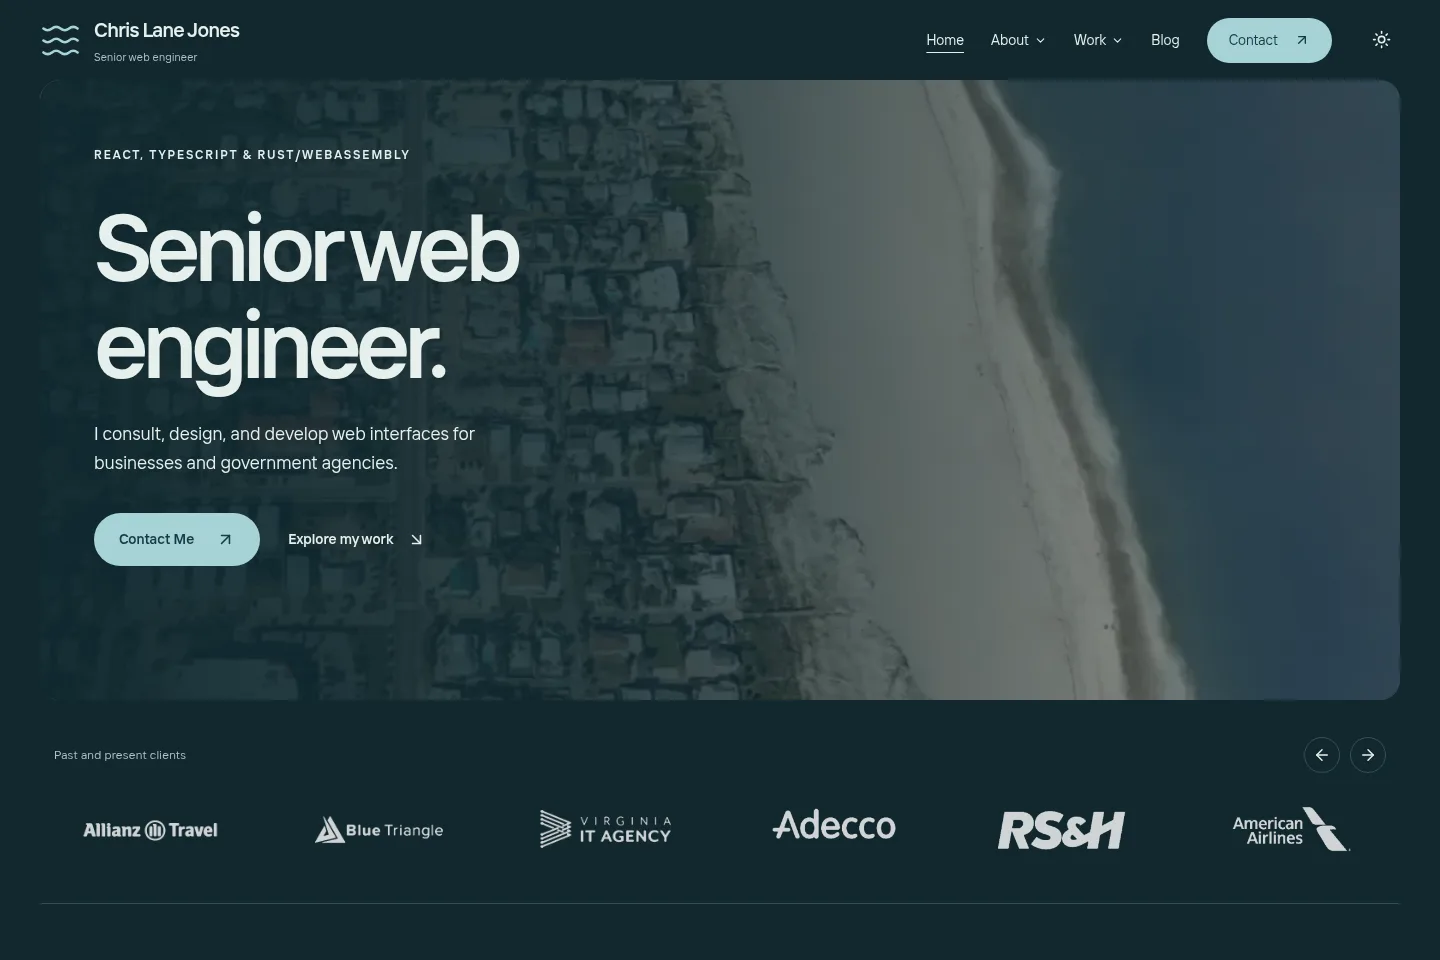
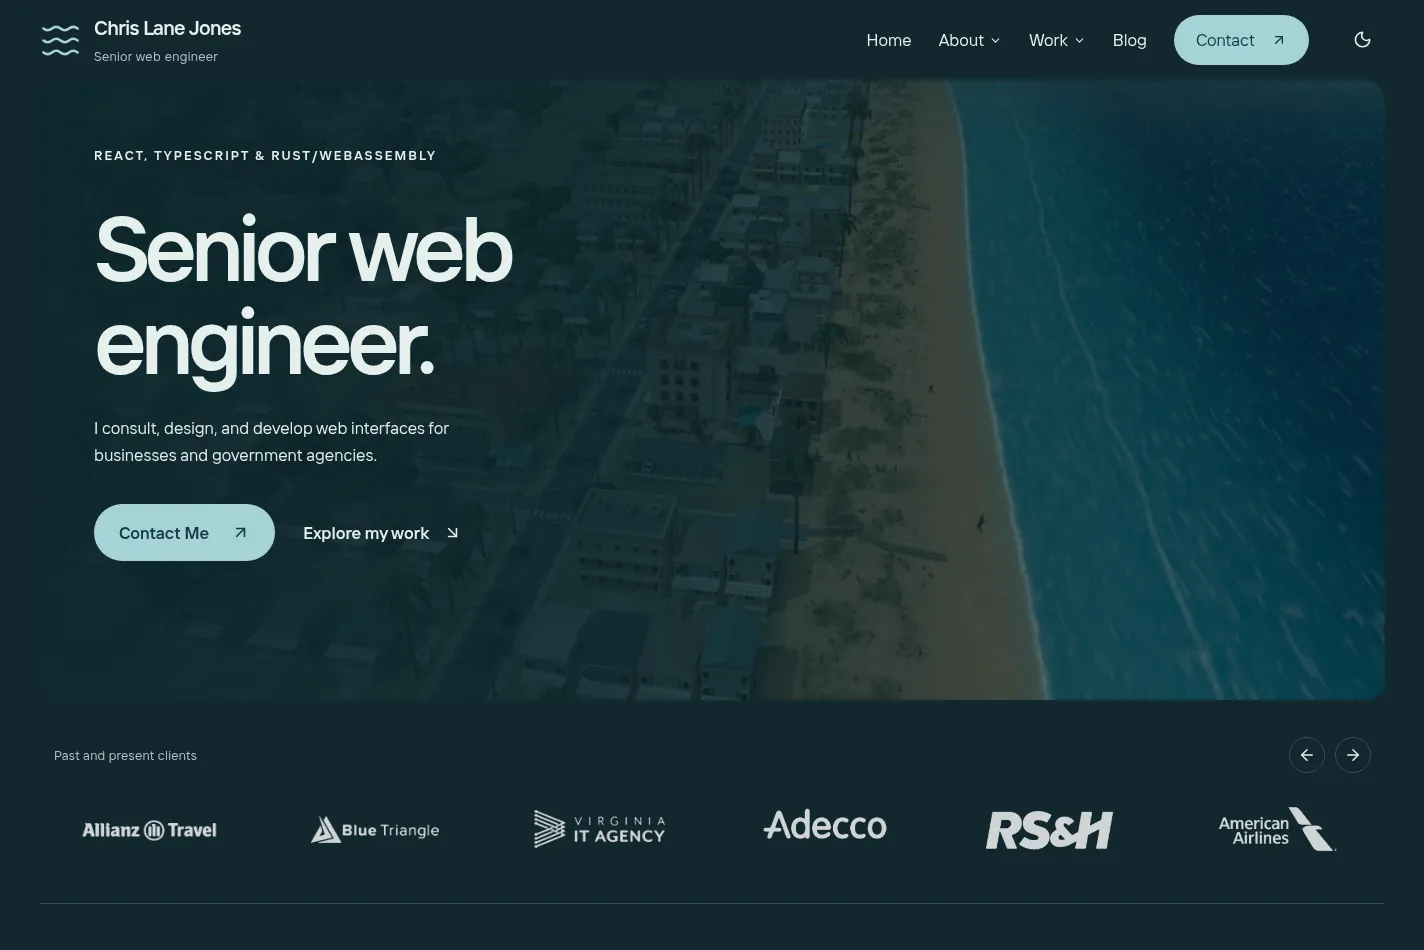
docs(readme): describe the live beach site as it ships today
- This repo is the live site now; Vercel deploys chrislanejones.com from main.
- New screenshots of the 3D coast hero in light and dark.
- Around the site: the 3D coast, Latest writing, the three-column Beyond
  the browser, the moldable sandcastle beach, and lighter phones.
- New "How the hero loads" section, including ?hero=lite.
- Stack, commands and "where to change things" pick up sanitize-html,
  the tests, the hero files and the sandcastle files.
- Deployment notes on previews and Deployment Storage.

diff --git a/README.md b/README.md
@@ -1,12 +1,12 @@
 # Chris Lane Jones — Beach Portfolio
 
-A coastal home for my work, writing, and life beyond the browser. Built with Next.js, React, and Convex, with animated beach scenes in React Three Fiber.
+A coastal home for my work, writing, and life beyond the browser. Built with Next.js, React, and Convex, with 3D beach scenes in React Three Fiber.
 
-After eight years in Virginia, we traded mountains for beaches and returned to Florida in 2026. This redesign brings that move into the site: shoreline photography, seashells, browser windows on sand, and a little radio for the coding soundtrack.
+After eight years in Virginia, we traded mountains for beaches and returned to Florida in 2026. This redesign brings that move into the site: a 3D model of the St. Augustine Beach coast, seashells, browser windows on sand, a sandcastle you can build, and a little radio for the coding soundtrack.
 
 [Portfolio](https://www.chrislanejones.com) · [GitHub](https://github.com/chrislanejones) · [Local setup](#run-locally)
 
-![Beach portfolio homepage in light mode, with aerial coastline photography and client logos.](docs/images/beach-home-light.webp)
+![Beach portfolio homepage in light mode, with a 3D model of the St. Augustine Beach coast and client logos.](docs/images/beach-home-light.webp)
 
 <details>
 <summary>View dark mode</summary>
@@ -15,17 +15,29 @@ After eight years in Virginia, we traded mountains for beaches and returned to F
 
 </details>
 
-This repository contains the beach redesign. The portfolio link above points to the main site; publishing this repository does not deploy the redesign.
+This repository is the live site. Vercel deploys [chrislanejones.com](https://www.chrislanejones.com) from `main`.
 
 ## Around the site
 
-- **Selected work:** browser-style project previews on sand, including the Image Horse editor, its marketing website, and Alembic.
-- **Beyond the browser:** latest writing, rotating ramblings, conference fan shots, and a radio-style music player with a track display.
-- **Beach scenes:** moving shoreline details, small shells, drifting particles, and a sandcastle and bucket near the water.
-- **Sandcastle builder:** place towers, rotate walls, add flags, and erase pieces on an interactive React Three Fiber beach. Supports mouse, touch, keyboard placement, undo, and clearing the sand.
+- **3D coast hero:** a model of St. Augustine Beach with houses, hotels, dunes, a pier, and moving surf. It loads in stages so it never slows the page (see [How the hero loads](#how-the-hero-loads)).
+- **Selected work:** browser-style project previews on sand. Every card links to the project's own page.
+- **Beyond the browser:** a short radio-style music player, rotating ramblings, and conference photos, side by side.
+- **Latest writing:** the two newest posts as cards, the same card the blog uses.
+- **Sandcastle builder:** a 9 by 7 beach you can reshape. Pile sand into dunes, dig moats that carve real trenches and fill with water, then build towers, bucket castles, and walls on top. A shovel does the digging. Supports mouse, touch, keyboard placement, undo, and clearing the sand.
 - **Conference archive:** event and year pages, transparent WebP logos, photo galleries, and notes from the conference trail.
 - **More pages:** career history, downloadable résumé, useful browser tabs, site history, contact, and React and WordPress maintenance services.
 - **Light and dark themes:** responsive layouts, keyboard-accessible controls, and reduced-motion support. Beach animation pauses when its scene or browser tab is hidden.
+- **Lighter on phones:** phones and Data Saver skip three.js on the home page. They get the hero still with a moving sea, and plain sand behind Beyond the browser.
+
+## How the hero loads
+
+| Stage | What shows | When |
+| --- | --- | --- |
+| 1 | A still of the 3D scene, light or dark | With the page |
+| 2 | A small WebGL layer that moves only the sea, no three.js | Right after the page loads |
+| 3 | The full 3D town, faded in over 1.2 seconds | After the load event and an idle moment |
+
+The sea layer and the 3D share one ocean clock, so the waves don't jump when the town fades in. Add `?hero=lite` to the URL to hold the page at stage 2. The stills in [public/hero/](public/hero/) are screenshots of the 3D; recapture them when the scene's look or camera changes.
 
 ## Stack
 
@@ -35,6 +47,8 @@ This repository contains the beach redesign. The portfolio link above points to 
 | Styling | Tailwind CSS 4, CSS Modules, locally hosted fonts |
 | Motion and 3D | Framer Motion, React Three Fiber, Three.js |
 | Content and backend | Convex queries, mutations, storage metadata, and HTTP endpoints |
+| Blog HTML | Marked for Markdown, sanitize-html for every post body ([ADR-008](docs/adr/008-sanitize-blog-html-with-sanitize-html.md)) |
+| Tests | Vitest and convex-test |
 | Authentication | Clerk, with an owner allowlist for admin access |
 | Media uploads | UploadThing |
 | Interface primitives | Radix UI, shadcn/ui, Vaul, Lucide |
@@ -128,6 +142,7 @@ Sign in at `/admin` with an allowed Clerk account. The Settings → Data Managem
 | `pnpm exec convex dev` | Sync and watch the development backend |
 | `pnpm exec tsc --noEmit` | Check TypeScript |
 | `pnpm lint` | Run ESLint on `src/` and `convex/` |
+| `pnpm test` | Run the Vitest suites (backend rules, blog sanitizer, sandcastle model) |
 | `pnpm exec next build --webpack` | Build the production frontend with Webpack |
 | `pnpm start` | Serve an existing production build |
 
@@ -143,8 +158,11 @@ Some homepage sections subscribe to live Convex queries and use local fallbacks.
 | --- | --- |
 | Homepage structure and copy | [src/app/page.tsx](src/app/page.tsx) |
 | Shared coastal colors and layouts | [src/components/coastal/coastal.module.css](src/components/coastal/coastal.module.css) |
+| Hero loading, stills, and sea layer | [hero-photo.tsx](src/components/coastal/hero-photo.tsx), [hero-ocean-lite.tsx](src/components/coastal/hero-ocean-lite.tsx), [public/hero/](public/hero/) |
+| The 3D coast model | [hero-coast-scene.tsx](src/components/coastal/hero-coast-scene.tsx) and the `hero-coast-model.ts` generators |
 | Beach animation and visibility handling | [src/components/coastal/coast-floor.tsx](src/components/coastal/coast-floor.tsx) |
-| Shells, waves, and sandcastle | `src/components/coastal/` scene and geometry files |
+| Sandcastle rules, scene, and tool art | [sandcastle-model.ts](src/components/coastal/sandcastle-model.ts), [sandcastle-scene.tsx](src/components/coastal/sandcastle-scene.tsx), [sandcastle-tool-art.tsx](src/components/coastal/sandcastle-tool-art.tsx) |
+| What blog HTML may contain | [src/lib/blog-content.ts](src/lib/blog-content.ts) |
 | Project presentation and fallback content | [src/data/project-presentation.ts](src/data/project-presentation.ts), [src/data/projects-data.ts](src/data/projects-data.ts) |
 | Conference photos and captions | [src/data/conference-photos.ts](src/data/conference-photos.ts) |
 | Conference slider fallback entries | [src/data/conferences.ts](src/data/conferences.ts) |
@@ -194,11 +212,13 @@ docs/images/           Screenshots used in this README
 
 ## Deployment
 
-Connect this repository's `main` branch to a Vercel project and configure its frontend environment variables. Use matching Clerk and Convex production settings, including the Clerk `convex` JWT template and admin allowlist.
+Vercel builds every pull request as a preview and deploys `main` to production. To run your own copy, connect this repository's `main` branch to a Vercel project and configure its frontend environment variables. Use matching Clerk and Convex production settings, including the Clerk `convex` JWT template and admin allowlist.
 
 Deploy backend changes separately with `pnpm exec convex deploy` after selecting the intended production project. Publishing frontend code alone does not deploy Convex functions or transfer development content to production. Populate the destination deployment through the admin tools or a deliberate data import.
 
-This repository can be deployed independently of the original portfolio. Local session records, source-image drafts, environment files, and temporary browser output are excluded from Git.
+Each deployment carries the whole `public/` folder, about 45 MB, mostly the radio's audio. On the Hobby plan, a short preview retention policy keeps Deployment Storage in check.
+
+Local session records, source-image drafts, environment files, and temporary browser output are excluded from Git.
 
 ## License and author
 
